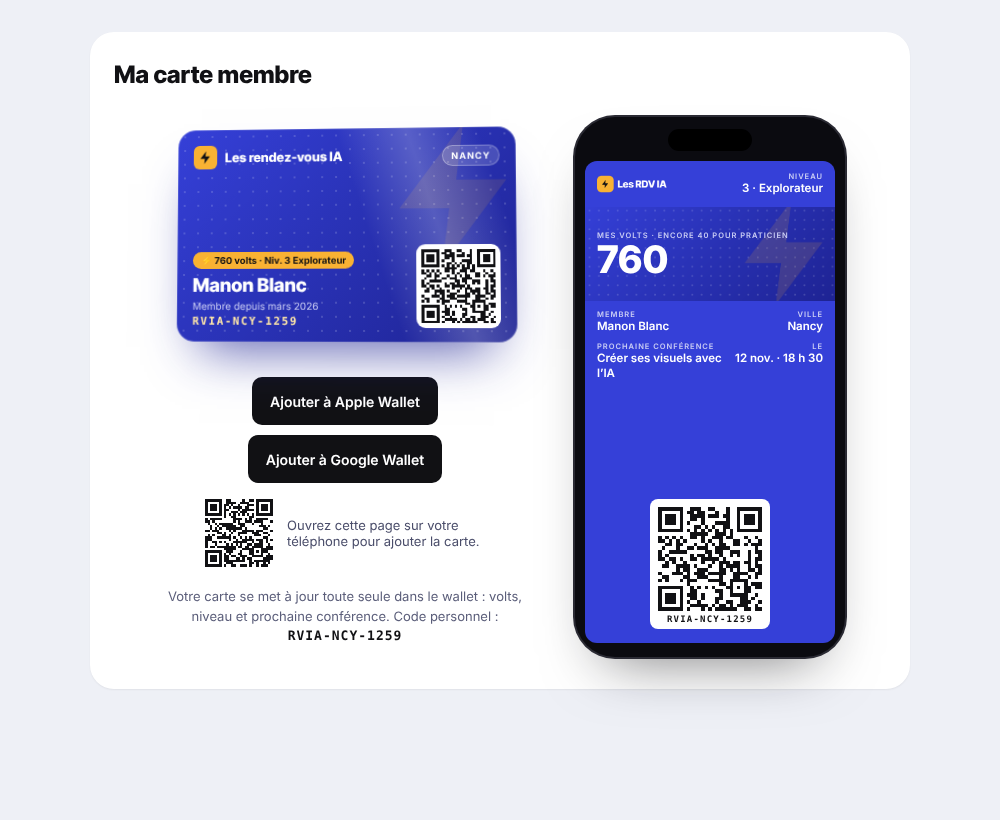
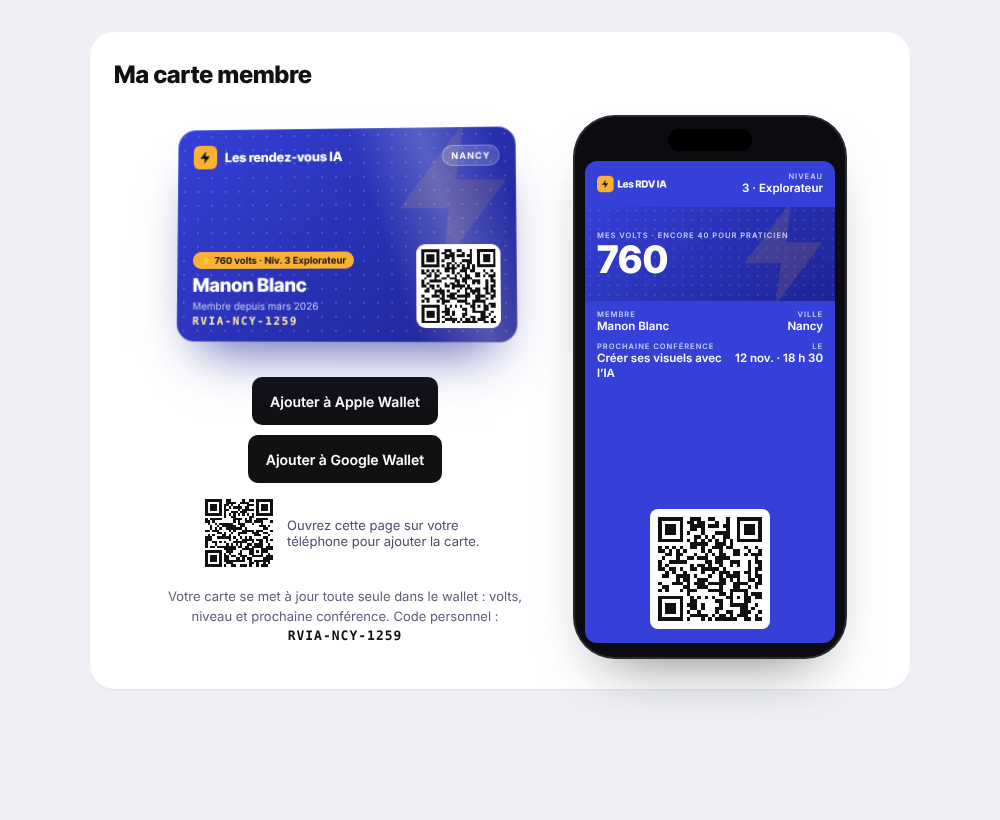
Rien sous le QR du pass et type Custom validés
- design.showBarcodeText: false (le code reste au verso, champ CODE MEMBRE) ;
  setup-pass l'applique aussi à un pass créé dans l'éditeur
- setup-pass ne crée plus que des pass Custom
- Aperçu wallet et README mis à jour

Claude-Session: https://claude.ai/code/session_018Bf4jzAMi64zauZuH79nzo

Changed region(s): [[0.651, 0.6098, 0.775, 0.7622]]

diff --git a/scripts/wallet/setup-pass.ts b/scripts/wallet/setup-pass.ts
@@ -2,7 +2,6 @@
  * Création / vérification idempotente du modèle de pass (§5).
  *
  *   npm run wallet:setup                       crée le modèle (brouillon) si PASS_STUDIO_PASS_ID est vide, sinon le vérifie
- *   npm run wallet:setup -- --type=loyalty     type du modèle créé (défaut : custom, seul type à clés libres)
  *   npm run wallet:setup -- --set-howto        écrit le texte « Gagner des volts » (champ du modèle, 1 push = 1 crédit)
  *   npm run wallet:setup -- --publish          publie le modèle (10 crédits, une seule fois)
  *
@@ -23,7 +22,7 @@ async function main() {
   const baseUrl = (process.env.PASS_STUDIO_BASE_URL ?? "https://www.passstudio.online/api/v1").replace(/\/$/, "");
   const siteUrl = (process.env.PUBLIC_SITE_URL ?? "https://rendezvousia.fr").replace(/\/$/, "");
   const args = process.argv.slice(2);
-  const passType = args.find((a) => a.startsWith("--type="))?.slice(7) === "loyalty" ? "loyalty" : "custom";
+  const passType = "custom"; // validé : seul type qui accepte nos champs libres
 
   const client = new PassStudioClient({
     apiKey,
@@ -54,6 +53,12 @@ async function main() {
   const { body } = await client.getPass(passId);
   const pass = body.pass;
   console.log(`\n« ${pass.name} » · type ${pass.passType} · statut ${pass.status} · distribution ${pass.distributionMode}`);
+
+  const design = (pass.design ?? {}) as { showBarcodeText?: boolean };
+  if (design.showBarcodeText !== false) {
+    await client.updatePass(passId, { design: { showBarcodeText: false } });
+    console.log("Texte sous le QR masqué (design.showBarcodeText: false).");
+  }
 
   if (pass.sendInviteEmail !== false) {
     await client.updatePass(passId, { sendInviteEmail: false });

diff --git a/lib/wallet/design.ts b/lib/wallet/design.ts
@@ -14,7 +14,8 @@ export function passDesign(siteUrl: string): PassDesign {
     stripImageUrl: asset("rdvia-strip-1125x432.png"),
     // barcodeType : la doc n'en liste pas les valeurs. On le laisse à l'éditeur (QR code)
     // et on lit la valeur retenue avec GET /passes/{passId} → design.barcodeType.
-    showBarcodeText: true,
+    // Rien sous le QR : la doc n'a pas de texte alternatif, ce serait l'URL. Le code est au verso (CODE MEMBRE).
+    showBarcodeText: false,
     backWebsiteUrl: `${siteUrl}/mon-espace`,
     holderPhotoStrip: null,
     originalLanguage: "fr",

diff --git a/lib/wallet/passstudio.ts b/lib/wallet/passstudio.ts
@@ -54,7 +54,7 @@ export interface PassDesign {
   iconUrl: string;
   stripImageUrl: string;
   barcodeType?: string;
-  showBarcodeText: boolean;
+  showBarcodeText: false;
   backWebsiteUrl: string;
   holderPhotoStrip: null;
   originalLanguage: "fr";
@@ -62,7 +62,7 @@ export interface PassDesign {
 
 export interface CreatePassInput {
   name: string;
-  passType: "loyalty" | "custom";
+  passType: "custom";
   distributionMode: "unique";
   status?: "draft" | "active";
   sendInviteEmail?: boolean;

diff --git a/components/WalletPreview.module.css b/components/WalletPreview.module.css
@@ -83,7 +83,7 @@
   margin: auto auto 14px;
   background: #fff;
   border-radius: 8px;
-  padding: 8px 8px 5px;
+  padding: 8px;
   display: flex;
   flex-direction: column;
   align-items: center;
@@ -96,12 +96,4 @@
   display: block;
   width: 100%;
   height: 100%;
-}
-.barcodeText {
-  font-family: ui-monospace, Menlo, Consolas, monospace;
-  font-size: 9px;
-  font-weight: 700;
-  letter-spacing: 1.2px;
-  color: #111114;
-  margin-top: 3px;
 }

diff --git a/components/WalletPreview.tsx b/components/WalletPreview.tsx
@@ -47,7 +47,6 @@ export function WalletPreview({ fields, qrSvg }: { fields: PassFields; qrSvg: st
 
         <div className={styles.barcode}>
           <div className={styles.qr} dangerouslySetInnerHTML={{ __html: qrSvg }} />
-          <span className={styles.barcodeText}>{fields.memberCode}</span>
         </div>
       </div>
     </div>

diff --git a/README.md b/README.md
@@ -38,12 +38,12 @@ Le build a été vérifié : ni la clé ni l'URL de l'API ne figurent dans `.nex
 
 1. Héberger `public/wallet/*.png` en https public (servis par le site : `https://rendezvousia.fr/wallet/…`).
    The Pass Studio télécharge les images, les vérifie et les redimensionne (icône 87×87, logo ≤ 480×150, bandeau 1125×432).
-2. Créer le modèle **dans l'éditeur The Pass Studio**, en type **Custom** (voir écart n° 1), distribution `unique`,
+2. Créer le modèle **dans l'éditeur The Pass Studio**, en type **Custom**, distribution `unique`, sans texte sous le QR,
    avec le design de `lib/wallet/design.ts`. Placer les champs du §3.3 avec exactement ces libellés :
    NIVEAU, MES VOLTS, PROGRESSION, MEMBRE, VILLE, PROCHAINE CONFÉRENCE, LE, MEMBRE DEPUIS, CODE MEMBRE,
    PROCHAINE CONFÉRENCE (VERSO), GAGNER DES VOLTS.
    (`npm run wallet:setup` sans `PASS_STUDIO_PASS_ID` crée le brouillon par l'API, mais les champs se placent dans l'éditeur.)
-3. `PASS_STUDIO_PASS_ID=… npm run wallet:setup` : désactive l'e-mail d'invitation de The Pass Studio, liste les clés
+3. `PASS_STUDIO_PASS_ID=… npm run wallet:setup` : masque le texte sous le QR, désactive l'e-mail d'invitation de The Pass Studio, liste les clés
    du pass, les retrouve par leur libellé et affiche la valeur de `PASS_STUDIO_FIELD_KEYS` à mettre dans l'environnement.
 4. `npm run wallet:setup -- --set-howto` écrit le texte « Gagner des volts » (champ commun à tous, 1 crédit).
 5. `npm run wallet:setup -- --publish` publie le modèle (**10 crédits**, une seule fois).
@@ -102,16 +102,18 @@ Vérifié dans la documentation The Pass Studio (integrations, errors, rate-limi
 - `sendInviteEmail: false` sur le pass : The Pass Studio n'envoie jamais d'e-mail, c'est notre plateforme qui le fait.
 - Nos propres `X-Request-Id` (`rdvia_sync_…`, `rdvia_issue_…`) sont envoyés pour relier nos journaux aux leurs.
 
-**À valider avec toi :**
+**Décisions prises :**
 
-1. **Type de pass : `custom` au lieu de `loyalty`.** Les types structurés (loyalty, coupon, event, generic) utilisent
-   des clés de champ documentées (`memberName`, `points`, `tier`…). Seul le type **Custom** permet nos 11 champs libres.
-   Ses clés sont générées par l'éditeur (`field_1787677019449`), d'où `PASS_STUDIO_FIELD_KEYS`.
-   Une clé inconnue fait échouer tout l'appel (400 `unknown_field_key`) : rien ne part à moitié rempli.
-   À vérifier dans l'éditeur : le placement en-tête / principal sur le bandeau / secondaires / auxiliaires / verso.
-2. **Texte sous le QR.** La doc ne prévoit pas de texte alternatif sous le code : avec `showBarcodeText: true`,
-   c'est la valeur encodée (l'URL `https://rendezvousia.fr/carte/RVIA-…`) qui s'affichera. Le QR garde l'URL, comme demandé.
-   Options : laisser l'URL, ou `showBarcodeText: false` et compter sur le champ CODE MEMBRE.
+1. **Type de pass : Custom** (validé). Les types structurés (loyalty, coupon, event, generic) n'acceptent que des clés
+   documentées (`memberName`, `points`, `tier`…) ; seul Custom permet nos 11 champs libres. Ses clés sont générées
+   par l'éditeur (`field_1787677019449`), d'où `PASS_STUDIO_FIELD_KEYS`. Une clé inconnue fait échouer tout l'appel
+   (400 `unknown_field_key`) : rien ne part à moitié rempli. À vérifier dans l'éditeur : le placement en-tête /
+   principal sur le bandeau / secondaires / auxiliaires / verso.
+2. **Rien sous le QR** (validé) : `showBarcodeText: false`. La doc n'a pas de texte alternatif ; ce serait l'URL.
+   Le QR encode l'URL de la carte, le code `RVIA-…` figure au verso (CODE MEMBRE).
+
+**Choix techniques à connaître :**
+
 3. **Carte régénérée.** L'émission est dédoublonnée par e-mail **avant** le `customerId`. Avec le même e-mail,
    l'API pourrait renvoyer l'ancienne instance révoquée. Une carte régénérée est donc émise **sans e-mail**, avec
    `customerId = member_<id>_<nouveau code>` (la 1re carte garde `member_<id>` + e-mail, conformément à la spec).
